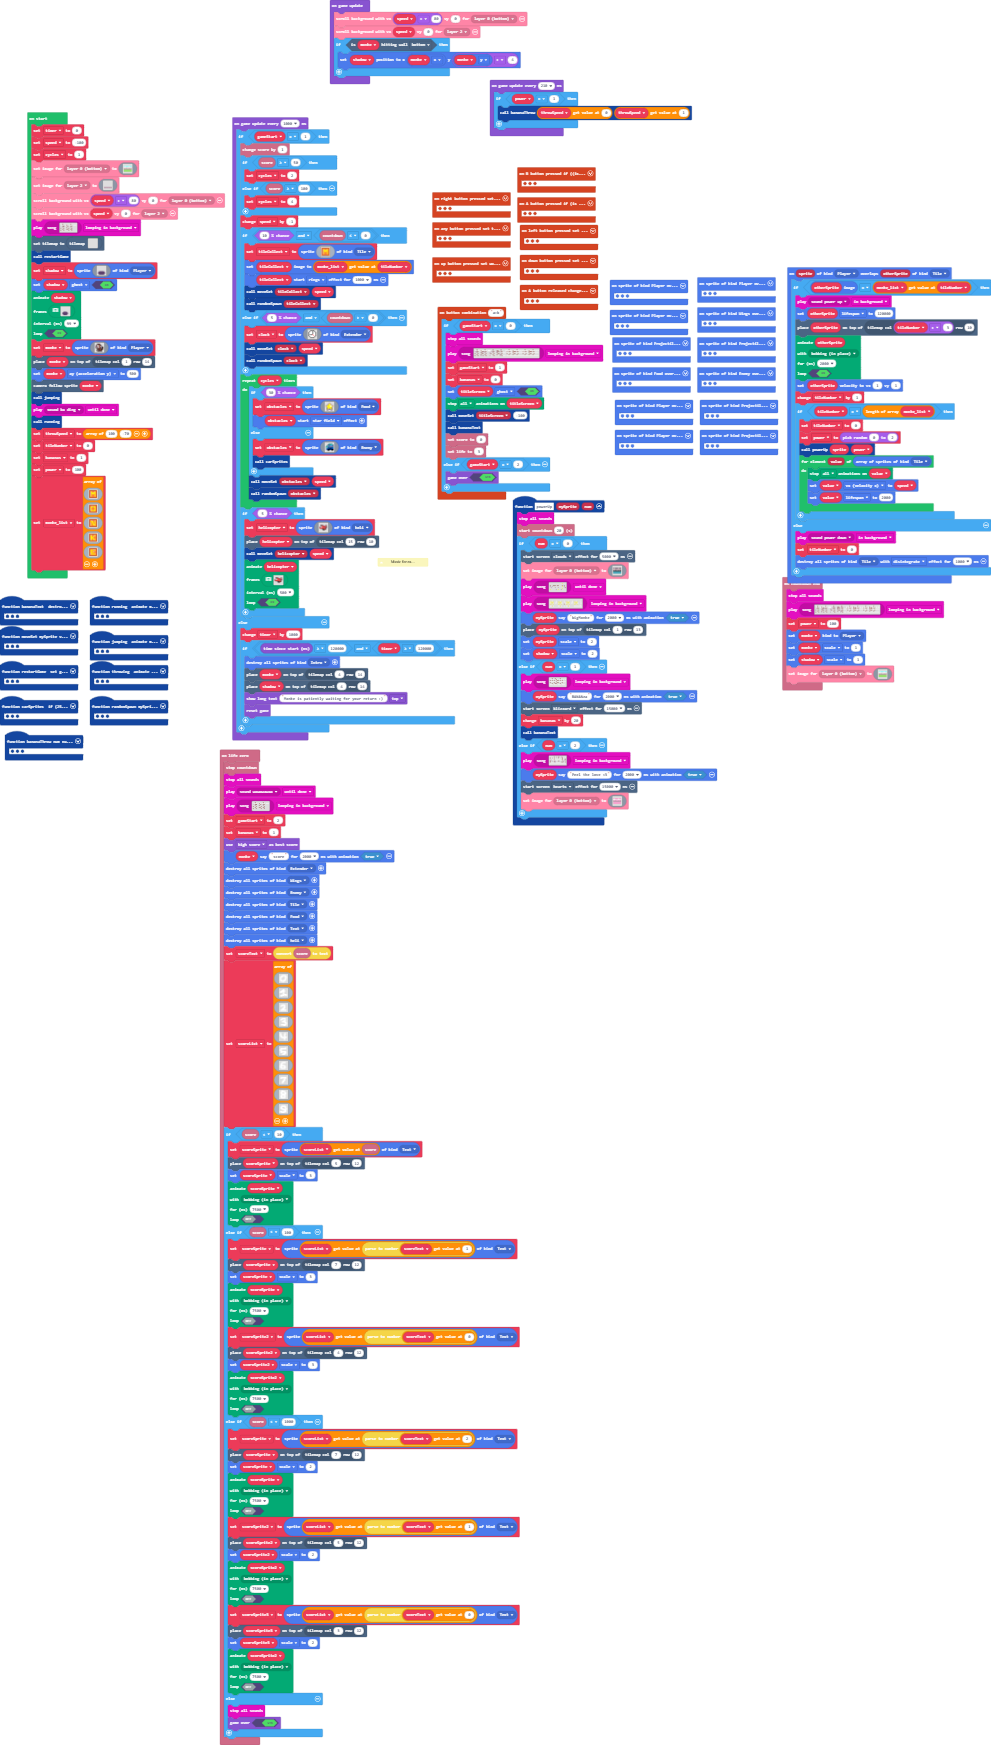
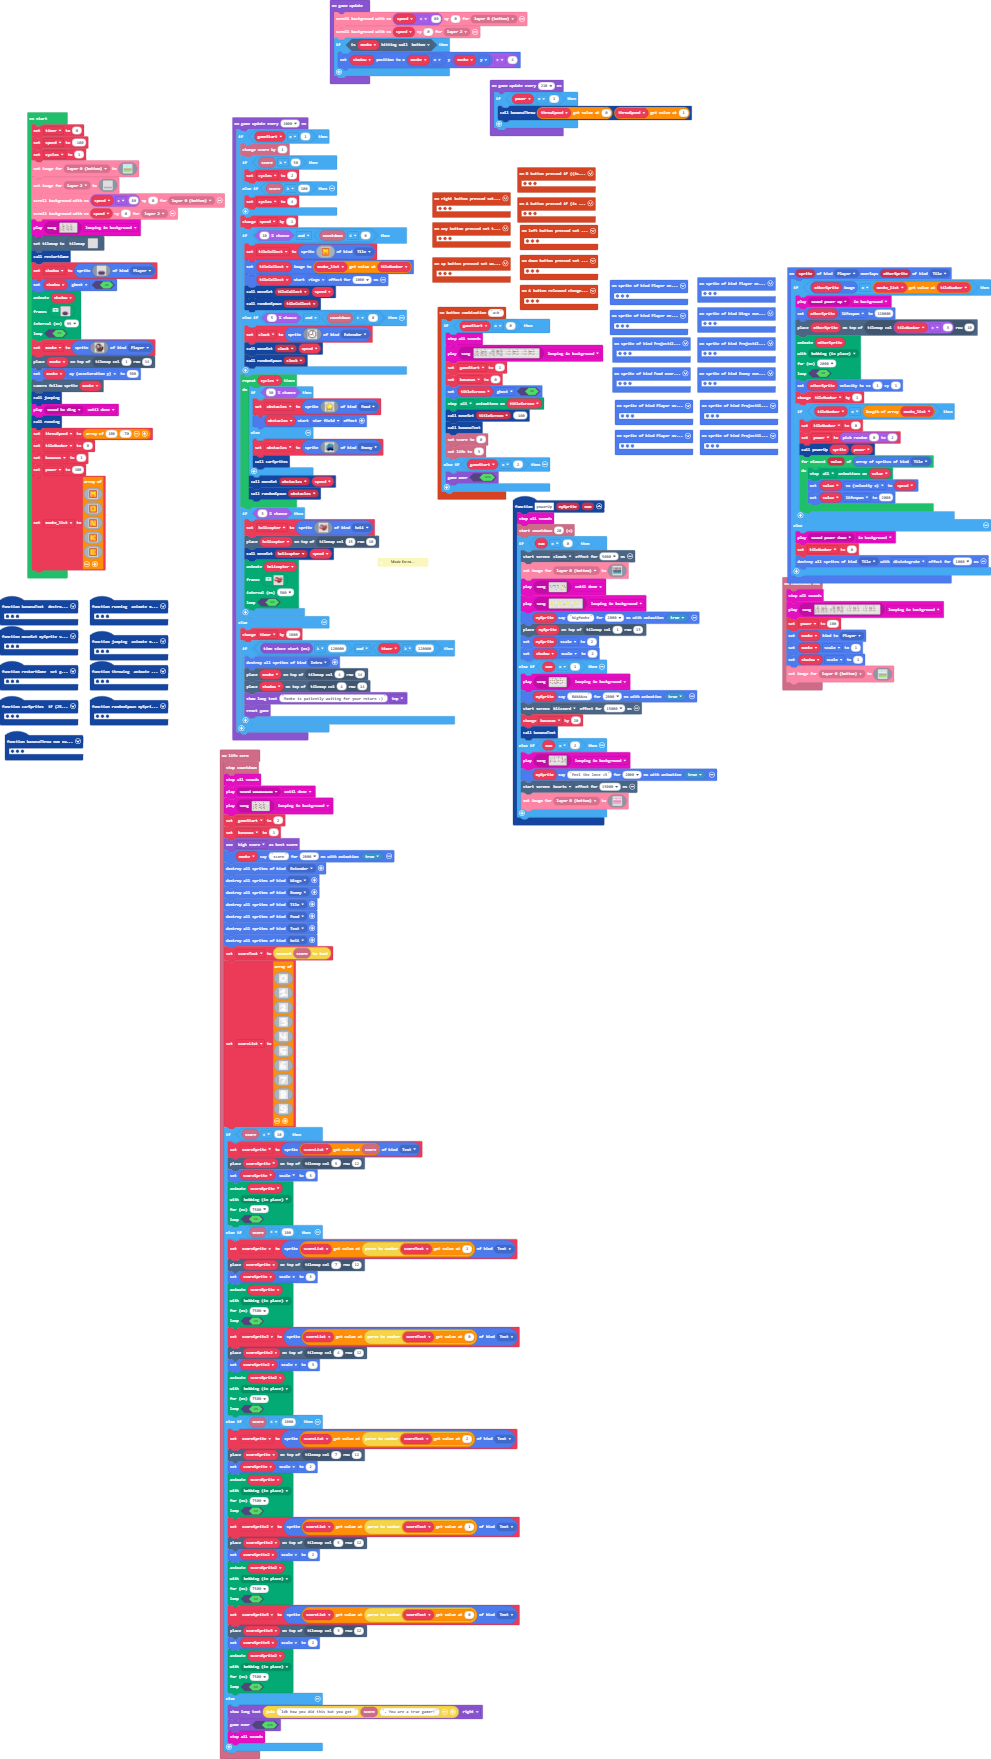
The end

Changed region(s): [[0.2119, 0.0309, 1.0, 1.0], [0.0, 0.0619, 0.2119, 0.4332], [0.3633, 0.0, 0.4238, 0.0309]]

diff --git a/main.ts b/main.ts
@@ -1486,7 +1486,7 @@ info.onLifeZero(function () {
         scoreSprite,
         animation.animationPresets(animation.bobbing),
         7500,
-        false
+        true
         )
     } else if (info.score() < 100) {
         scoreSprite = sprites.create(scoreList[parseFloat(scoreText[1])], SpriteKind.Text)
@@ -1496,7 +1496,7 @@ info.onLifeZero(function () {
         scoreSprite,
         animation.animationPresets(animation.bobbing),
         7500,
-        false
+        true
         )
         scoreSprite2 = sprites.create(scoreList[parseFloat(scoreText[0])], SpriteKind.Text)
         tiles.placeOnTile(scoreSprite2, tiles.getTileLocation(4, 12))
@@ -1505,7 +1505,7 @@ info.onLifeZero(function () {
         scoreSprite2,
         animation.animationPresets(animation.bobbing),
         7500,
-        false
+        true
         )
     } else if (info.score() < 1000) {
         scoreSprite = sprites.create(scoreList[parseFloat(scoreText[2])], SpriteKind.Text)
@@ -1515,7 +1515,7 @@ info.onLifeZero(function () {
         scoreSprite,
         animation.animationPresets(animation.bobbing),
         7500,
-        false
+        true
         )
         scoreSprite2 = sprites.create(scoreList[parseFloat(scoreText[1])], SpriteKind.Text)
         tiles.placeOnTile(scoreSprite2, tiles.getTileLocation(5, 12))
@@ -1524,7 +1524,7 @@ info.onLifeZero(function () {
         scoreSprite2,
         animation.animationPresets(animation.bobbing),
         7500,
-        false
+        true
         )
         scoreSprite3 = sprites.create(scoreList[parseFloat(scoreText[0])], SpriteKind.Text)
         tiles.placeOnTile(scoreSprite3, tiles.getTileLocation(3, 12))
@@ -1533,11 +1533,12 @@ info.onLifeZero(function () {
         scoreSprite2,
         animation.animationPresets(animation.bobbing),
         7500,
-        false
+        true
         )
     } else {
-        music.stopAllSounds()
+        game.showLongText("Idk how you did this but you got " + info.score() + ". You are a true gamer!", DialogLayout.Right)
         game.gameOver(true)
+        music.stopAllSounds()
     }
 })
 controller.A.onEvent(ControllerButtonEvent.Released, function () {
